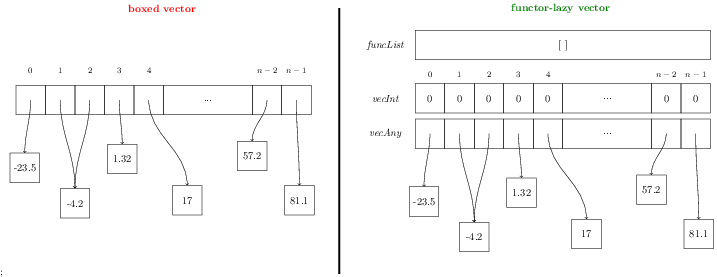
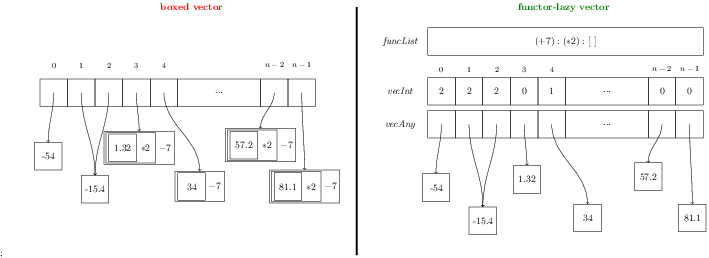
aligned images properly

diff --git a/img/fig1.tex b/img/fig1.tex
@@ -4,9 +4,9 @@
 
 \definecolor{darkgreen}{RGB}{0,127,0};
 \begin{tikzpicture}
-\node at (-6,0) {\includegraphics{boxedvector1}};
+\node at (-6.5,0) {\includegraphics{boxedvector5}};
+\node at (6.5,0) {\includegraphics{functorlazyvector5}};
 \draw[line width=2pt] (0,4.5) to (0,-4.5);
-\node at (6.5,0) {\includegraphics{functorlazyvector1}};
 
 \node at (-6,4.5) {\textcolor{red}{\textbf{boxed vector}}};
 \node at (7.5,4.5) {\textcolor{darkgreen}{\textbf{functor-lazy vector}}};

diff --git a/img/fig2.tex b/img/fig2.tex
@@ -4,7 +4,7 @@
 
 \definecolor{darkgreen}{RGB}{0,127,0};
 \begin{tikzpicture}
-\node at (-6,0) {\includegraphics{boxedvector2}};
+\node at (-6.5,0) {\includegraphics{boxedvector2}};
 \node at (6.5,0) {\includegraphics{functorlazyvector2}};
 \draw[line width=2pt] (0,4.5) to (0,-4.5);
 

diff --git a/img/fig3.tex b/img/fig3.tex
@@ -4,7 +4,7 @@
 
 \definecolor{darkgreen}{RGB}{0,127,0};
 \begin{tikzpicture}
-\node at (-6,0) {\includegraphics{boxedvector3}};
+\node at (-6.5,0) {\includegraphics{boxedvector3}};
 \node at (6.5,0) {\includegraphics{functorlazyvector3}};
 \draw[line width=2pt] (0,4.5) to (0,-4.5);
 

diff --git a/img/fig4.tex b/img/fig4.tex
@@ -4,7 +4,7 @@
 
 \definecolor{darkgreen}{RGB}{0,127,0};
 \begin{tikzpicture}
-\node at (-6,0) {\includegraphics{boxedvector4}};
+\node at (-6.5,0) {\includegraphics{boxedvector4}};
 \node at (6.5,0) {\includegraphics{functorlazyvector4}};
 \draw[line width=2pt] (0,4.5) to (0,-4.5);
 

diff --git a/img/fig5.tex b/img/fig5.tex
@@ -4,7 +4,7 @@
 
 \definecolor{darkgreen}{RGB}{0,127,0};
 \begin{tikzpicture}
-\node at (-6,0) {\includegraphics{boxedvector5}};
+\node at (-6.5,0) {\includegraphics{boxedvector5}};
 \node at (6.5,0) {\includegraphics{functorlazyvector5}};
 \draw[line width=2pt] (0,4.5) to (0,-4.5);
 

diff --git a/img/boxedvector4.tex b/img/boxedvector4.tex
@@ -4,6 +4,10 @@
 
 
 \begin{tikzpicture}
+
+\node at (-1.5 ,0) {\ };
+\node at (10.5,0) {\ };
+
 \node[minimum size=1cm,draw] at (0,0) {};
 \node[minimum size=1cm,draw] at (1,0) {};
 \node[minimum size=1cm,draw] at (2,0) {};

diff --git a/img/boxedvector1.tex b/img/boxedvector1.tex
@@ -4,6 +4,10 @@
 
 
 \begin{tikzpicture}
+
+\node at (-1.5,0) {\ };
+\node at (10.5,0) {\ };
+
 \node[minimum size=1cm,draw] at (0,0) {};
 \node[minimum size=1cm,draw] at (1,0) {};
 \node[minimum size=1cm,draw] at (2,0) {};

diff --git a/img/boxedvector2.tex b/img/boxedvector2.tex
@@ -4,6 +4,10 @@
 
 
 \begin{tikzpicture}
+
+\node at (-1.5,0) {\ };
+\node at (10.5,0) {\ };
+
 \node[minimum size=1cm,draw] at (0,0) {};
 \node[minimum size=1cm,draw] at (1,0) {};
 \node[minimum size=1cm,draw] at (2,0) {};

diff --git a/img/boxedvector3.tex b/img/boxedvector3.tex
@@ -4,6 +4,10 @@
 
 
 \begin{tikzpicture}
+
+\node at (-1.5,0) {\ };
+\node at (10.5,0) {\ };
+
 \node[minimum size=1cm,draw] at (0,0) {};
 \node[minimum size=1cm,draw] at (1,0) {};
 \node[minimum size=1cm,draw] at (2,0) {};

diff --git a/img/boxedvector5.tex b/img/boxedvector5.tex
@@ -4,6 +4,10 @@
 
 
 \begin{tikzpicture}
+
+\node at (-1.5,0) {\ };
+\node at (10.5,0) {\ };
+
 \node[minimum size=1cm,draw] at (0,0) {};
 \node[minimum size=1cm,draw] at (1,0) {};
 \node[minimum size=1cm,draw] at (2,0) {};
